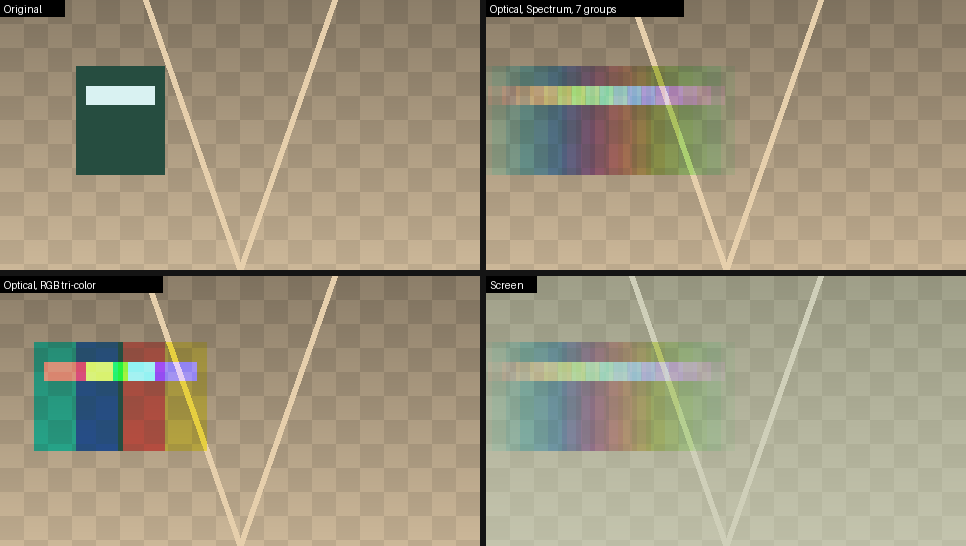
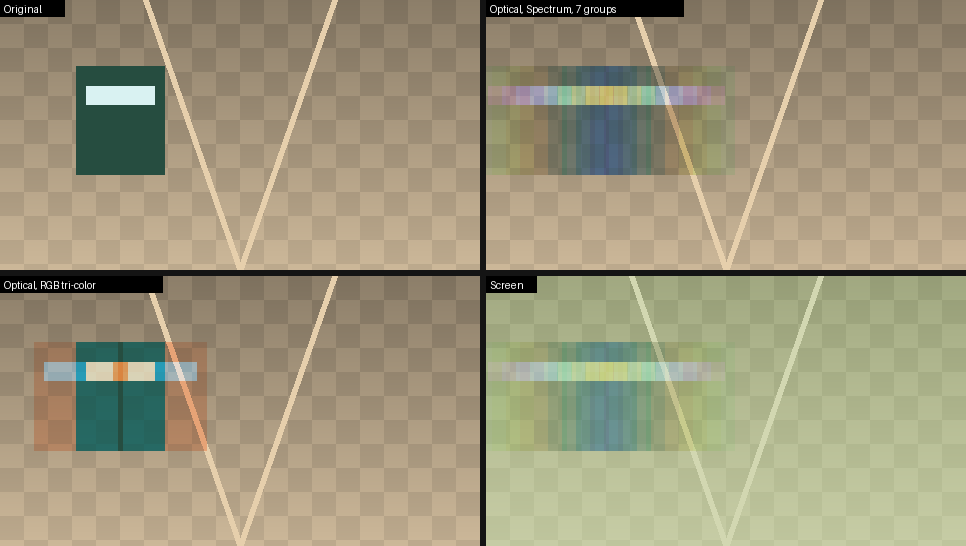
Color Order: Color 1 at the current frame by default
Colours were assigned past -> future, so with a backward trail Color 1
landed on the oldest copy and the last colour on the current frame. New
'Color Order' option, default 'From Current Frame': colours run outwards
from the current frame by distance, mirrored on both sides; 'Past to
Future' keeps the previous order. Test covers both orders and symmetry.

Claude-Session: https://claude.ai/code/session_01GZkoybHRWCQ51B172xPBN5

Changed region(s): [[0.4969, 0.0934, 0.7143, 0.3425], [0.0311, 0.6227, 0.2174, 0.8407], [0.4969, 0.6227, 0.7143, 0.8407]]

diff --git a/src/BrightTimesCore.h b/src/BrightTimesCore.h
@@ -31,6 +31,9 @@ struct Color {
 
 enum ColorMode { ColorMode_SPECTRUM = 1, ColorMode_RGB, ColorMode_CUSTOM };
 enum GroupMode { GroupMode_SEQUENTIAL = 1, GroupMode_CYCLIC };
+// Which frames get Color 1: the ones nearest the current frame (colours run
+// outwards, mirrored on both sides) or the earliest ones (past -> future).
+enum ColorOrder { ColorOrder_OUTWARD = 1, ColorOrder_TIME };
 enum TintMode  { TintMode_FILTER = 1, TintMode_LUMA };
 enum BlendMode { BlendMode_OPTICAL = 1, BlendMode_ADDITIVE, BlendMode_SCREEN, BlendMode_LIGHTEN,
                  BlendMode_TRAILS };
@@ -50,6 +53,7 @@ struct Settings {
     // Groups & colours
     int       groups        = 7;
     GroupMode groupMode     = GroupMode_SEQUENTIAL;
+    ColorOrder colorOrder   = ColorOrder_OUTWARD;
     float     groupSoftness = 0.f;   // 0..1, blends colours of neighbouring groups
     ColorMode colorMode     = ColorMode_SPECTRUM;
     float     hueStart      = 0.f;   // degrees
@@ -207,12 +211,29 @@ inline std::vector<Sample> BuildSamples(const Settings& sIn)
         }
     }
     const int m = static_cast<int>(grouped.size());
+    // rank[i]: position of the sample in colour order, 0..ranks-1.
+    std::vector<int> rank(m);
+    int              ranks = m;
+    if (s.colorOrder == ColorOrder_OUTWARD) {
+        // By distance from the current frame; both sides share a rank.
+        std::vector<int> dists;
+        for (const Sample* p : grouped) dists.push_back(p->frameOffset < 0 ? -p->frameOffset : p->frameOffset);
+        std::vector<int> uniq = dists;
+        std::sort(uniq.begin(), uniq.end());
+        uniq.erase(std::unique(uniq.begin(), uniq.end()), uniq.end());
+        ranks = static_cast<int>(uniq.size());
+        for (int i = 0; i < m; ++i) {
+            rank[i] = static_cast<int>(std::lower_bound(uniq.begin(), uniq.end(), dists[i]) - uniq.begin());
+        }
+    } else {
+        for (int i = 0; i < m; ++i) rank[i] = i;  // samples are ordered past -> future
+    }
     for (int i = 0; i < m; ++i) {
         if (s.groupMode == GroupMode_CYCLIC) {
-            grouped[i]->tint = GroupColor(s, i % s.groups);
+            grouped[i]->tint = GroupColor(s, rank[i] % s.groups);
         } else {
             // Continuous position of the sample in group space: [0, groups).
-            const float pos = (static_cast<float>(i) + 0.5f) * s.groups / static_cast<float>(m);
+            const float pos = (static_cast<float>(rank[i]) + 0.5f) * s.groups / static_cast<float>(ranks);
             grouped[i]->tint = GroupColorSmooth(s, pos);
         }
     }

diff --git a/tests/cpu_host_test.cpp b/tests/cpu_host_test.cpp
@@ -4,6 +4,7 @@
 // property of the Optical mode.
 #include "ae_stub.h"
 #include "BrightTimes.h"
+#include "BrightTimesCore.h"
 #include <cstdio>
 #include <cstdlib>
 #include <map>
@@ -195,6 +196,29 @@ int main(int argc, char** argv) {
     std::printf("clip edges: OK\n");
     g_clipStart = -1000000; g_clipEnd = 1000000; in.total_time = 0; in.current_time = 5;
     g_params[BT_EDGE_MODE-1].u.pd.value = BT_EDGE_HOLD;
+  }
+  // Colour order: with "From Current Frame", Color 1 is at the current frame and
+  // the colours run outwards (mirrored on both sides); "Past to Future" starts
+  // with the earliest frame.
+  {
+    bt::Settings s;
+    s.framesBackward = 8; s.framesForward = 0; s.groups = 3; s.colorMode = bt::ColorMode_CUSTOM;
+    s.customCount = 3; s.custom[0] = {0, 0, 1}; s.custom[1] = {1, 0, 0}; s.custom[2] = {0, 1, 0};
+    auto colorAt = [](const std::vector<bt::Sample>& v, int off) -> int {
+      for (const auto& k : v) if (k.frameOffset == off) return k.tint.b > 0.5f ? 1 : (k.tint.r > 0.5f ? 2 : 3);
+      return 0;
+    };
+    auto out = bt::BuildSamples(s);
+    bool ok = colorAt(out, 0) == 1 && colorAt(out, -2) == 1 && colorAt(out, -3) == 2 &&
+              colorAt(out, -5) == 2 && colorAt(out, -6) == 3 && colorAt(out, -8) == 3;
+    s.colorOrder = bt::ColorOrder_TIME;
+    auto time = bt::BuildSamples(s);
+    ok = ok && colorAt(time, -8) == 1 && colorAt(time, 0) == 3;
+    s.colorOrder = bt::ColorOrder_OUTWARD; s.framesForward = 8;
+    auto both = bt::BuildSamples(s);
+    for (int d = 1; d <= 8; ++d) ok = ok && colorAt(both, -d) == colorAt(both, d);
+    std::printf("color order: %s\n", ok ? "OK" : "FAIL");
+    if (!ok) return 1;
   }
   std::printf("checkout times:"); for (auto& kv : g_checkTime) std::printf(" %d@%d", kv.first, kv.second); std::printf("\n");
   std::printf("ALL OK\n");

diff --git a/src/BrightTimes.cpp b/src/BrightTimes.cpp
@@ -124,6 +124,7 @@ PF_Err ReadSettings(PF_InData* in_data, bt::Settings& s)
 
     s.groups          = r.Int(BT_GROUPS);
     s.groupMode       = static_cast<bt::GroupMode>(r.Popup(BT_GROUP_MODE));
+    s.colorOrder      = static_cast<bt::ColorOrder>(r.Popup(BT_COLOR_ORDER));
     s.groupSoftness   = r.Float(BT_GROUP_SOFTNESS) / 100.f;
     s.colorMode       = static_cast<bt::ColorMode>(r.Popup(BT_COLOR_MODE));
     s.hueStart        = r.AngleDeg(BT_HUE_START);
@@ -188,6 +189,11 @@ PF_Err ParamsSetup(PF_InData* in_data, PF_OutData* out_data)
     AEFX_CLR_STRUCT(def);
     PF_ADD_POPUPX("Group Order", 2, bt::GroupMode_SEQUENTIAL,
                   "Sequential (by time)|Cyclic", PF_ParamFlag_SUPERVISE, ID_GROUP_MODE);
+
+    // Color 1 at the current frame (outwards) or at the earliest frame.
+    AEFX_CLR_STRUCT(def);
+    PF_ADD_POPUPX("Color Order", 2, bt::ColorOrder_OUTWARD,
+                  "From Current Frame|Past to Future", 0, ID_COLOR_ORDER);
 
     AEFX_CLR_STRUCT(def);
     PF_ADD_FLOAT_SLIDERX("Group Softness", 0, 100, 0, 100, 0, 1,

diff --git a/src/BrightTimes.h b/src/BrightTimes.h
@@ -48,6 +48,7 @@ enum {
     BT_COLOR_TOPIC_START,
     BT_GROUPS,
     BT_GROUP_MODE,
+    BT_COLOR_ORDER,
     BT_GROUP_SOFTNESS,
     BT_COLOR_MODE,
     BT_HUE_START,
@@ -114,7 +115,8 @@ enum {
     ID_MIX,
     ID_USE_GPU,
     ID_EDGE_MODE,
-    ID_COLOR_BALANCE
+    ID_COLOR_BALANCE,
+    ID_COLOR_ORDER
 };
 
 // "Clip Edges" popup values.

diff --git a/README.md b/README.md
@@ -23,6 +23,7 @@
 | **Keep Current Untinted** | Текущий кадр не окрашивается (белый фильтр) и не входит в группы. |
 | **Groups & Colors → Number of Groups** | На сколько цветовых групп делятся кадры (1–16). |
 | **Group Order** | *Sequential* — группы идут по времени (прошлое → будущее, как радуга на референсе); *Cyclic* — кадры раздаются группам по кругу (классический RGB-«Harris shutter»). |
+| **Color Order** | *From Current Frame* (по умолчанию) — Color 1 у текущего кадра, дальше цвета идут наружу, одинаково назад и вперёд; *Past to Future* — Color 1 у самого раннего кадра, последний цвет у самого позднего (радуга через время). |
 | **Group Softness** | Плавный переход цвета между соседними группами (0 % — жёсткие ступени). |
 | **Color Mode** | *Spectrum* (Hue Start / Hue Range / Saturation), *RGB Tri-Color*, *Custom Palette* (Palette Size + Color 1…6). |
 | **Reverse Colors** | Развернуть порядок цветов. |
